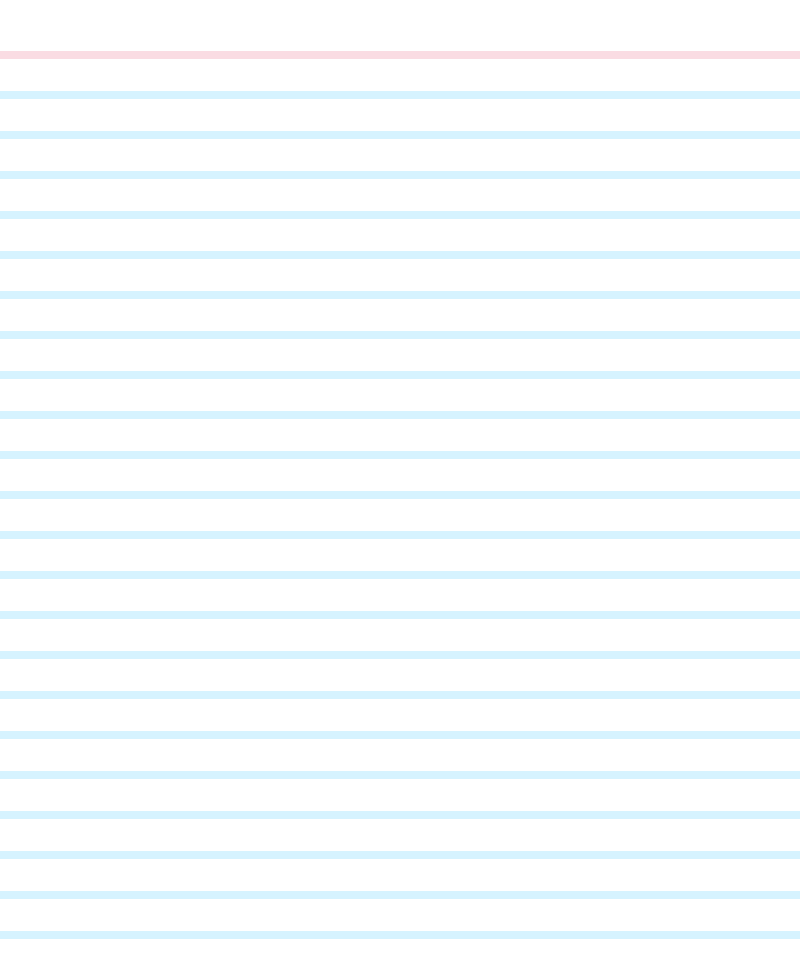
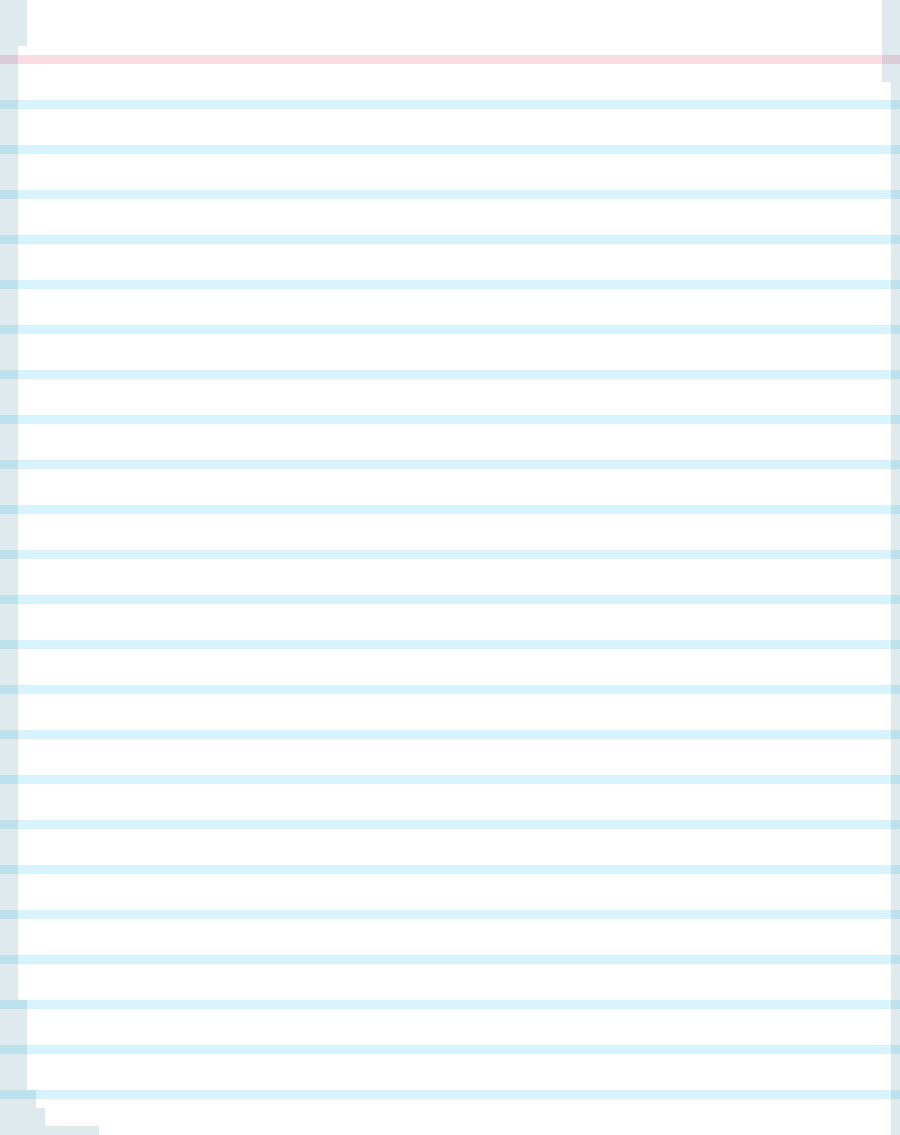
Created notebook effect
Placed game inside a "notebook", added a binding and a background to the page!

diff --git a/style.css b/style.css
@@ -4,14 +4,27 @@
 }
 body{
   font-family: "Dogica", "Courier New", monospace;
+  background-color: #acbafc;
+}
+#notebook{
+  background-color: #acbafc;
+  width: 900px;
+  padding: 40px 40px 0px;
+  margin: 0px auto;
+  height: 60px;
+  background-image: url("assets/binding.png");
+  background-size: cover;
 }
 #game{
-  border: 5px black solid;
   width: 900px;
-  margin: 0px auto;
   padding: 40px 40px 0px;
   position: relative;
+  margin: 0px auto;
   background-image: url("assets/noteBg.png");
+  background-size: cover;
+}
+#footer{
+  height: 50px;
 }
 #header{
   height: 100px;
@@ -61,15 +74,15 @@ canvas{
 #level4{
   width: 300px;
   position: absolute;
-  top: 160px;
-  left: 60px;
+  top: 210px;
+  left: 70px;
   z-index: 3;
 }
 #cloud{
   width: 400px;
   position: absolute;
-  left: 20px;
-  top: 150px;
+  left: 30px;
+  top: 200px;
 }
 #helpbox{
   width: 700px;
@@ -79,8 +92,7 @@ canvas{
   display: block;
   z-index: 4;
   position: absolute;
-  left: 100px;
-  right: 100px;
+  left: 115px;
   top: 100px;
   background-color: white;
 }

diff --git a/index.html b/index.html
@@ -12,6 +12,7 @@
     <div id="header">
       <h1>Hi-Stress</h1>
     </div>
+    <div id="notebook"></div>
     <div id="game">
       <div id="helpbox">
         <h2>Welcome to Hi-Stress!</h2>
@@ -44,5 +45,6 @@
       </div>
       <div class="clear"></div>
     </div>
+    <div id="footer"></div>
   </body>
 </html>
